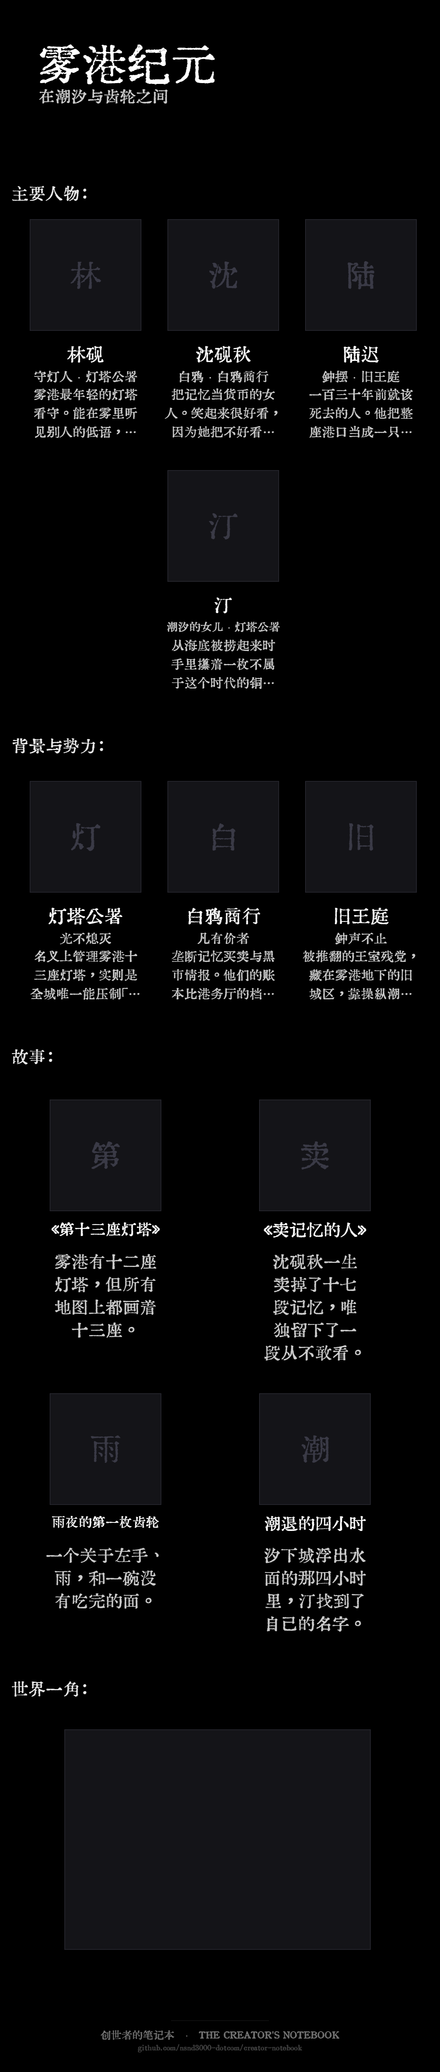
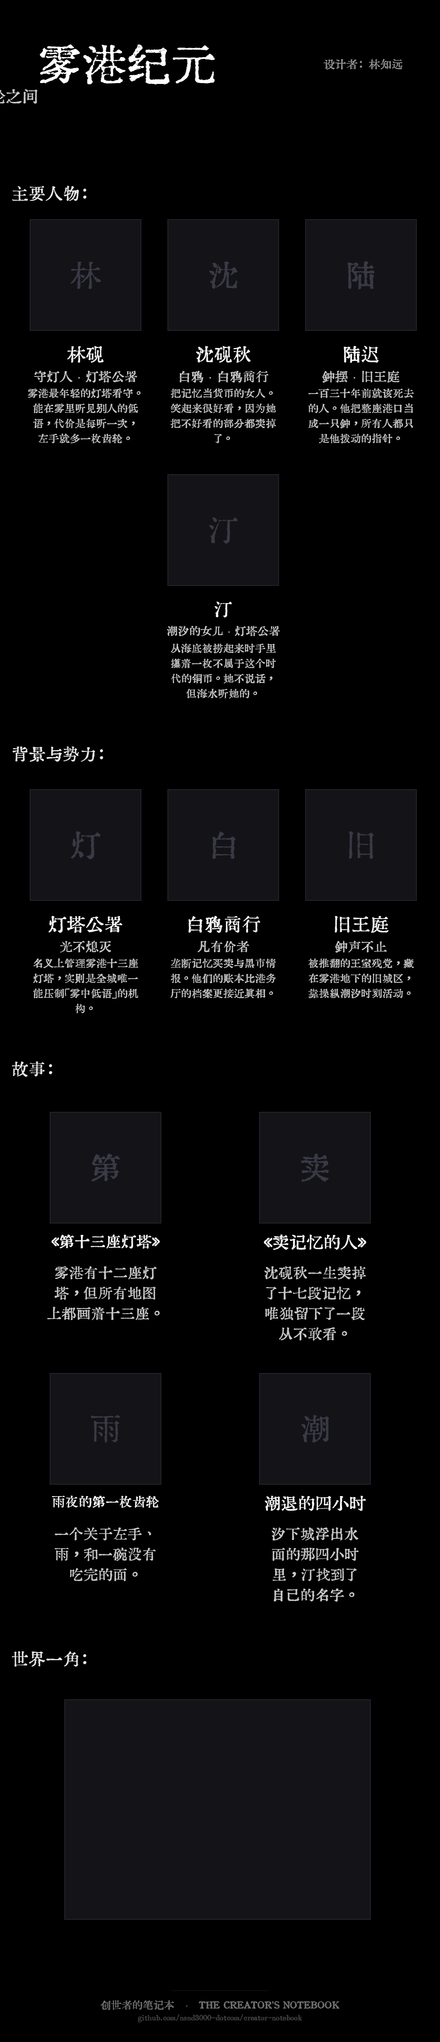
长图加设计者署名、简介字号分级，侧栏改名世界一角
- 长图右上角新增「设计者：名字」，28px 汇文明朝体，与世界名同一视线；在「长图设置」里填写，留空不出现
- 标题与设计者自动避让：设计者最多占可用宽度 30%，超长世界名自动缩字号（下限 64），两者不重叠
- 卡片文字改为三级字阶：名字 46 / 称号·格言 32 / 简介 26（行高 37，最多 4 行）；故事正文 42 → 36
- 侧栏「城市与背景」改名「世界一角」，页面说明改为「这里可添加城市」；抽屉标题改为「新增/编辑地点」
- meta 增加 designer 字段并在 normalize 里补默认值，老存档直接可用
- 重新生成 docs 里的两张样张与界面截图

diff --git a/assets/poster.js b/assets/poster.js
@@ -34,6 +34,9 @@
     subTop: 216, subFont: 40,
     afterTitle: 196,
 
+    /* 设计者署名：图右上角、与世界名同一行 */
+    designerFont: 28, designerTop: 143, designerGap: 56, designerMaxW: 0.3,
+
     labelX: 28, labelFont: 42, labelH: 40,
 
     cardW: 274, cardH: 274,
@@ -43,14 +46,14 @@
     imgTextGap: 34,
     textFont: 46, lineH: 64, textMaxW: 266,
 
-    /* 卡片文字：名字 / 副信息 / 简介（简介来自人物页、势力页的简介字段） */
+    /* 卡片文字：名字 / 称号（副信息） / 简介 —— 三级字号，简介最小 */
     cardTextW: 282,
     nameFont: 46, nameH: 62,
     metaFont: 32, metaH: 44,
-    bioFont: 32, bioLineH: 46, bioLines: 3,
+    bioFont: 26, bioLineH: 37, bioLines: 4,
 
     storyTitleGap: 25, storyTitleFont: 42, storyTitleLh: 56, storyTitleLines: 2,
-    storyTextGap: 22, storyFont: 42, storyLineH: 56, storyLines: 4,
+    storyTextGap: 22, storyFont: 36, storyLineH: 50, storyLines: 4,
 
     wideX: 158, wideW: 752, wideH: 541,
 
@@ -64,6 +67,7 @@
       bg: '#000000', text: '#ffffff', textDim: 'rgba(255,255,255,.80)',
       label: 'rgba(255,255,255,.92)', phFill: '#141418', phLine: '#2a2a33', phText: '#3a3a46',
       footer: 'rgba(255,255,255,.35)',
+      designer: 'rgba(255,255,255,.60)',
       credit: 'rgba(255,255,255,.46)', creditDim: 'rgba(255,255,255,.26)',
       creditLine: 'rgba(255,255,255,.12)'
     },
@@ -71,6 +75,7 @@
       bg: '#f3efe6', text: '#141318', textDim: 'rgba(20,19,24,.78)',
       label: 'rgba(20,19,24,.9)', phFill: '#ded5c2', phLine: '#c7bba4', phText: '#a99e86',
       footer: 'rgba(20,19,24,.4)',
+      designer: 'rgba(20,19,24,.62)',
       credit: 'rgba(20,19,24,.5)', creditDim: 'rgba(20,19,24,.3)',
       creditLine: 'rgba(20,19,24,.14)'
     }
@@ -462,12 +467,45 @@
     ctx.fillStyle = T.bg;
     ctx.fillRect(0, 0, P.W, H);
 
-    // 标题（没填就留白，不塞占位词）
+    // 标题（没填就留白，不塞占位词）+ 右上角「设计者」
+    const titleText = (world.meta && world.meta.name) || '未命名世界';
+    const designerName = String((world.meta && world.meta.designer) || '').trim();
+    const designerText = designerName ? `设计者：${designerName}` : '';
+
+    // 先量设计者那行要占多宽：标题太长时自动缩字号，两者不会撞在一起
+    let dText = '', dFont = P.designerFont;
+    if (designerText) {
+      // 设计者最多占可用宽度的 30%，保证世界名始终是主角
+      ctx.font = `${dFont}px ${FF}`;
+      const fit = fitShrink(ctx, designerText, (P.W - P.titleX * 2) * P.designerMaxW, dFont, 16);
+      dText = fit.text; dFont = fit.font;
+      ctx.font = `${dFont}px ${FF}`;
+    }
+    const dw = dText ? ctx.measureText(dText).width : 0;
+
+    let titleFont = P.titleFont;
+    ctx.font = `${titleFont}px ${FF}`;
+    const titleMax = P.W - P.titleX * 2 - (dw ? dw + P.designerGap : 0);
+    while (titleFont > 64 && ctx.measureText(titleText).width > titleMax) {
+      titleFont -= 2;
+      ctx.font = `${titleFont}px ${FF}`;
+    }
+    const titleOut = ctx.measureText(titleText).width > titleMax
+      ? fitOneLine(ctx, titleText, titleMax)
+      : titleText;
+
     ctx.textAlign = 'left';
     ctx.textBaseline = 'top';
     ctx.fillStyle = T.text;
-    ctx.font = `${P.titleFont}px ${FF}`;
-    ctx.fillText(world.meta.name || '未命名世界', P.titleX, P.titleTop);
+    ctx.font = `${titleFont}px ${FF}`;
+    ctx.fillText(titleOut, P.titleX, P.titleTop);
+
+    if (dText) {
+      ctx.textAlign = 'right';
+      ctx.fillStyle = T.designer;
+      ctx.font = `${dFont}px ${FF}`;
+      ctx.fillText(dText, P.W - P.titleX, P.designerTop);
+    }
 
     if (opt._hasSub && opt._hasTitle) {
       ctx.font = `${P.subFont}px ${FF}`;

diff --git a/assets/app.js b/assets/app.js
@@ -41,7 +41,7 @@
     { id: 'characters', label: '人物', icon: 'user', key: 'characters' },
     { id: 'relations', label: '关系网', icon: 'net', key: 'relations' },
     { id: 'factions', label: '势力', icon: 'flag', key: 'factions' },
-    { id: 'cities', label: '城市与背景', icon: 'city', key: 'cities' },
+    { id: 'cities', label: '世界一角', icon: 'city', key: 'cities' },
     { id: 'stories', label: '故事', icon: 'book', key: 'stories' },
     { id: 'timeline', label: '时间线', icon: 'time', key: 'timeline' },
     { id: 'memos', label: '备忘录', icon: 'note', key: 'memos' },
@@ -82,7 +82,7 @@
       auto: () => ({ name: '', motto: '', leader: '', desc: '', tags: [], color: '#7f93b8', image: '' })
     },
     cities: {
-      kicker: 'Place', title: '城市与背景',
+      kicker: 'Place', title: '地点',
       fields: [
         { k: 'name', label: '名称', type: 'text', req: true, ph: '雾港' },
         { k: 'region', label: '所在地域', type: 'text', ph: '北岸 · 潮汐三角洲' },
@@ -462,6 +462,14 @@
         </div>
       </div>
 
+      <div style="margin-top:16px">
+        <label class="mini-label" for="designerInput">设计者</label>
+        <input class="mini-input" id="designerInput" type="text" spellcheck="false"
+               placeholder="填你的名字，会印在图右上角"
+               value="${esc(w.meta.designer || '')}" />
+        <p class="mini-hint">留空则图上不出现这一行。填了就写成「设计者：名字」，小字排在名字右侧。</p>
+      </div>
+
       <div style="margin-top:18px">
         <div class="field-row" style="padding:0;margin-bottom:9px">
           <label>世界一角</label>
@@ -650,7 +658,7 @@
       </article>`).join('');
 
     return `
-      ${pageHead('城市与背景', `共 ${list.length} 处。城市图可直接用作长图底部的「世界一角」。`,
+      ${pageHead('世界一角', `这里可添加城市。写它的样子、位置与归属，城市图会直接用作长图底部的「世界一角」。`,
         `<button class="btn primary" data-act="new-item" data-key="cities">${ic('plus')} 新增地点</button>`)}
       <div class="grid c3">
         ${cards}
@@ -1715,6 +1723,14 @@
       document.title = (e.target.value || '未命名世界') + ' · 创世者的笔记本';
       persist();
       if (App.route === 'overview') repaintPoster();
+    });
+
+    // 设计者：写在长图右上角的那一行（面板会随重绘重建，用委托绑定）
+    document.addEventListener('input', e => {
+      if (e.target.id !== 'designerInput') return;
+      App.world.meta.designer = e.target.value;
+      persist();
+      repaintPoster();
     });
 
     window.addEventListener('hashchange', () => {

diff --git a/assets/style.css b/assets/style.css
@@ -526,6 +526,18 @@ img{display:block;max-width:100%;}
   padding:5px 8px;font-size:12px;color:var(--text);outline:none;max-width:150px;
 }
 .field-row select:focus{border-color:var(--gold-dim);}
+/* 长图设置里的行内输入（设计者） */
+.mini-label{
+  display:block;font-size:12.5px;color:var(--text-2);margin-bottom:7px;
+}
+.mini-input{
+  width:100%;height:34px;padding:0 10px;
+  background:rgba(12,12,16,.9);border:1px solid var(--line);border-radius:0;
+  color:var(--text);font-size:12.5px;outline:none;transition:border-color .18s,background .18s;
+}
+.mini-input::placeholder{color:#5a5a66;}
+.mini-input:focus{border-color:var(--gold-dim);background:rgba(201,168,106,.05);}
+.mini-hint{font-size:10.5px;color:#63636f;line-height:1.7;margin:7px 0 0;letter-spacing:.02em;}
 .seg{display:flex;border:1px solid var(--line);border-radius:0;overflow:hidden;}
 .seg button{padding:5px 11px;font-size:11.5px;color:var(--text-3);transition:all .15s;}
 .seg button.on{background:var(--gold-soft);color:#e6cf9e;}

diff --git a/assets/store.js b/assets/store.js
@@ -126,6 +126,7 @@
         name: '雾港纪元',
         subtitle: '在潮汐与齿轮之间',
         author: '',
+        designer: '',
         createdAt: Date.now(),
         updatedAt: Date.now()
       },
@@ -229,6 +230,7 @@
         name: name || '',
         subtitle: '',
         author: '',
+        designer: '',
         createdAt: Date.now(),
         updatedAt: Date.now()
       },
@@ -243,6 +245,7 @@
     if (!s || typeof s !== 'object') return blankWorld('');
     s.version = s.version || 1;
     s.meta = s.meta || { name: '未命名世界' };
+    if (typeof s.meta.designer !== 'string') s.meta.designer = '';
     ['characters', 'relations', 'factions', 'cities', 'stories', 'timeline', 'memos', 'todos'].forEach(k => {
       if (!Array.isArray(s[k])) s[k] = [];
     });

diff --git a/README.md b/README.md
@@ -12,10 +12,12 @@
 
 ## 它能做什么
 
-- **八个板块**：概览 / 人物 / 关系网 / 势力 / 城市与背景 / 故事 / 备忘录 / 待办，外加一条时间线
+- **八个板块**：概览 / 人物 / 关系网 / 势力 / 世界一角 / 故事 / 备忘录 / 待办，外加一条时间线
 - **备忘录与待办**：只给自己看的两页，支持搜索便签、勾选待办、清除已完成；它们不进长图
 - **人物关系图**：节点自由拖动，松手即记住位置；可单独导出成图片
 - **长图导出**：1080 宽基准，1× / 2× 两档清晰度，墨黑 / 纸白两种风格；副标题、底部落款、世界一角（场景大图）都能逐项开关
+- **设计者署名**：在「长图设置」里填名字，会以「设计者：名字」的小字印在图右上角，与世界名同一行；留空则不出现
+- **三级字阶**：卡片上的名字最重，称号 / 格言次之，简介最小——图上分得清哪一行是信息、哪一行是描述
 - **数据自持**：内容存在浏览器本地，可一键备份为 JSON、也能导入回来；换设备时带着那个文件走
 - **图片裁剪**：上传的人物/场景图可以在页面里直接裁成方形
 - **窄屏可用**：手机与平板（≤860px）把左侧栏收成顶栏的目录按钮，点开是整页目录抽屉，十项一屏可及，不再需要横向拖动
